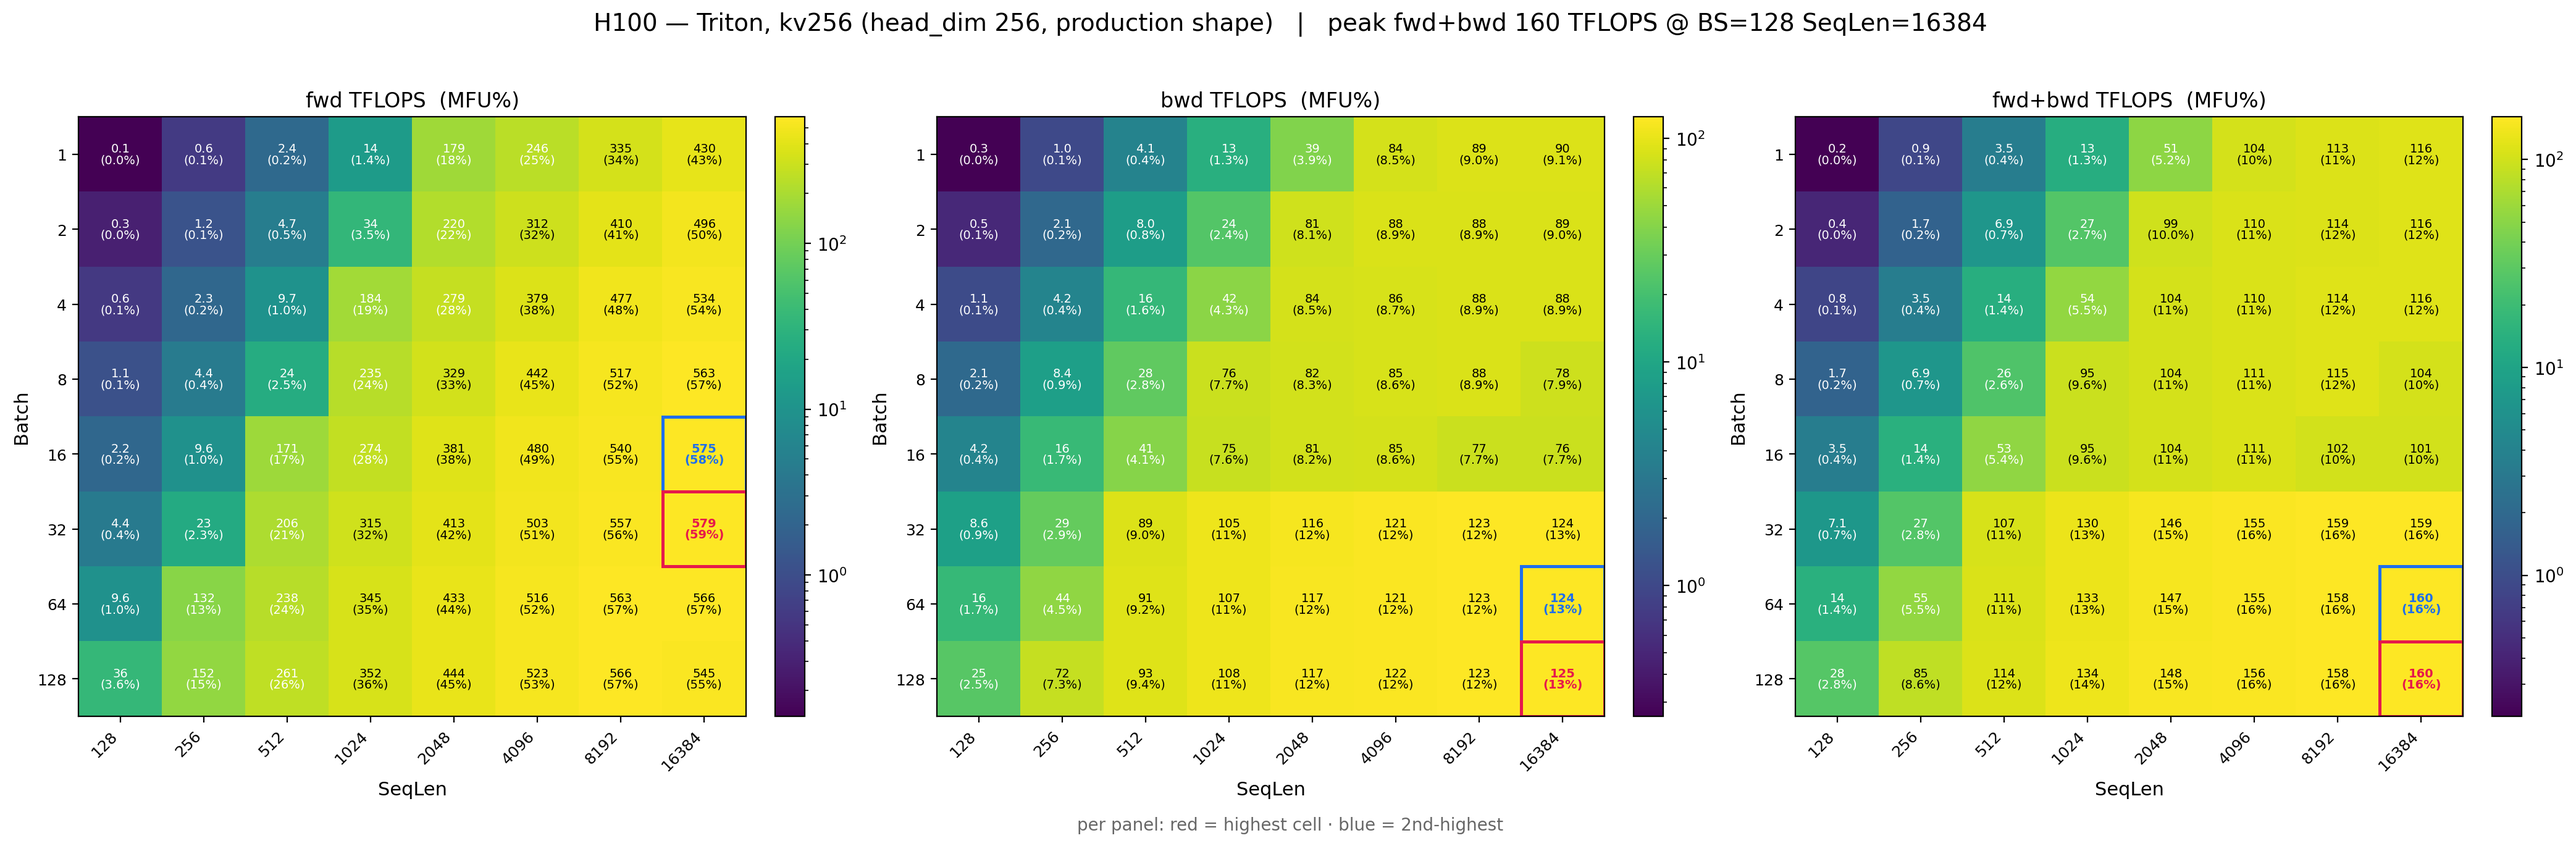
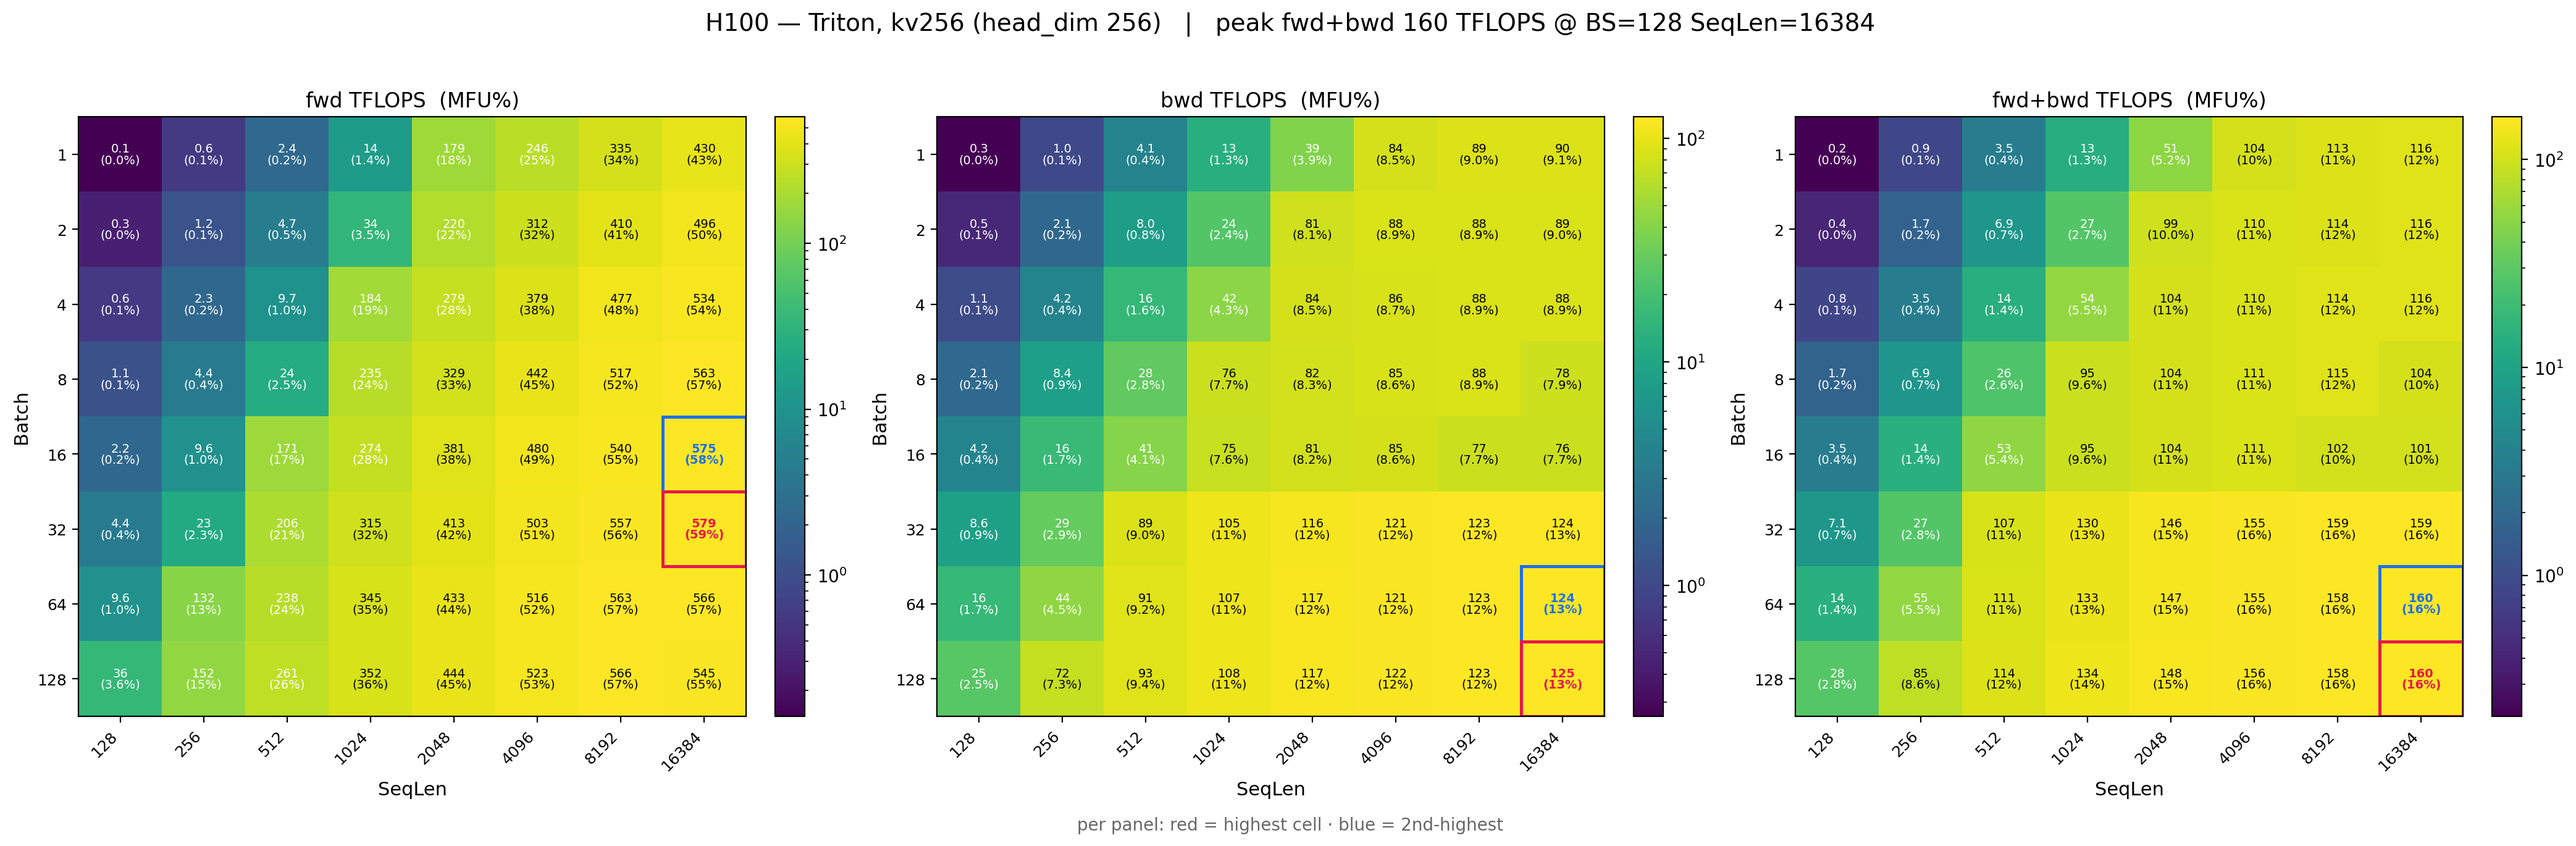
sync from source: kv256 titles drop 'production shape' (+ regenerated figures), H100 upstream-reference URL fix

Changed region(s): [[0.2182, 0.0, 0.7792, 0.0613]]

diff --git a/runtime/plot_attn_heatmaps.py b/runtime/plot_attn_heatmaps.py
@@ -93,13 +93,13 @@ GB, HP = 2500.0, 989.0   # bf16 dense peaks (GB300 per NVL72 Quick Start Guide; 
 JOBS = [
     ("gb300_cut128.txt",     "gb300/attn_cutlass_kv128.png", "GB300 — Blackwell CUTLASS, kv128 (head_dim 128)", GB),
     ("gb300_tri128.txt",     "gb300/attn_triton_kv128.png",  "GB300 — Triton, kv128 (head_dim 128)", GB),
-    ("gb300_tri256.txt",     "gb300/attn_triton_kv256.png",  "GB300 — Triton, kv256 (head_dim 256, production shape)", GB),
+    ("gb300_tri256.txt",     "gb300/attn_triton_kv256.png",  "GB300 — Triton, kv256 (head_dim 256)", GB),
     ("gb300_tri256_ext.txt", "gb300/attn_triton_kv256_ext.png", "GB300 — Triton kv256, EXTENDED grid (BS≤256 / SeqLen≤32768)", GB),
-    ("h100_orig.txt",        "h100/attn_cutlass_kv256.png",  "H100 — Hopper CUTLASS, kv256 (head_dim 256, production shape)", HP),
+    ("h100_orig.txt",        "h100/attn_cutlass_kv256.png",  "H100 — Hopper CUTLASS, kv256 (head_dim 256)", HP),
     ("h100_grid128.txt",     "h100/attn_cutlass_kv128.png",  "H100 — Hopper CUTLASS, kv128 (head_dim 128)", HP),
     ("h100_c64.txt",         "h100/attn_cutlass_kv64.png",   "H100 — Hopper CUTLASS, kv64 (head_dim 64)", HP),
     ("h100_t128.txt",        "h100/attn_triton_kv128.png",   "H100 — Triton, kv128 (head_dim 128)", HP),
-    ("h100_t256.txt",        "h100/attn_triton_kv256.png",   "H100 — Triton, kv256 (head_dim 256, production shape)", HP),
+    ("h100_t256.txt",        "h100/attn_triton_kv256.png",   "H100 — Triton, kv256 (head_dim 256)", HP),
 ]
 for src, out, title, peak in JOBS:
     if os.path.exists(os.path.join(DATA, src)): figure(src, out, title, peak)

diff --git a/BENCHMARK_RESULTS.md b/BENCHMARK_RESULTS.md
@@ -120,7 +120,7 @@ Takeaway: **the Blackwell CUTLASS kernel delivers ~2–2.85× H100's absolute th
 **GB300 — triton kv256** (head_dim-256 fallback), extended 9×9 grid (BS≤256 / SeqLen≤32768 — a superset of the 8×8):
 ![gb300 attn triton kv256 extended](figures/gb300/attn_triton_kv256_ext.png)
 
-**H100 — Hopper CUTLASS kv256** (compare to the [upstream H100 reference](https://github.com/NVIDIA/recsys-examples/tree/main/examples/hstu/training)) and the **matched CUTLASS kv128**:
+**H100 — Hopper CUTLASS kv256** (compare to the [upstream H100 reference](https://github.com/NVIDIA/recsys-examples/tree/main/examples/hstu/training/benchmark#results-single-h100-sxm5-80gb)) and the **matched CUTLASS kv128**:
 ![h100 attn cutlass kv256](figures/h100/attn_cutlass_kv256.png)
 ![h100 attn cutlass kv128](figures/h100/attn_cutlass_kv128.png)
 
